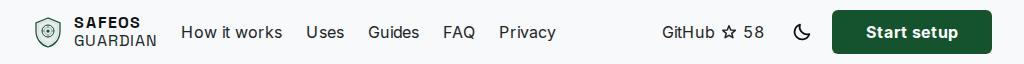
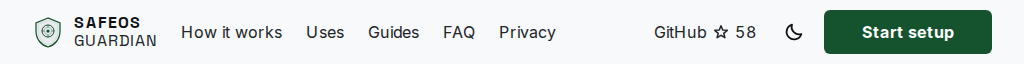
Pictures: the footer at 390 px with every row on one line, and the header's start key at one width before and after setup, from the Pictures run on 9097c4d

Changed region(s): [[0.625, 0.1562, 0.8438, 0.8438], [0.8438, 0.4062, 0.9375, 0.6562]]

diff --git a/docs/pictures/pr-52/README.md b/docs/pictures/pr-52/README.md
@@ -16,6 +16,15 @@ a post: `faq-1280-light.png`, `blog-1280-light.png` and
 `blog-how-safeos-guardian-works-1280-light.png`. That run read the same count
 on the same day, and every walk passed.
 
+Eight files of `after/` are from a later run,
+[run 44879584728](https://github.com/framerslab/safeos/actions/runs/44879584728)
+on commit 9097c4d, which keeps every footer row on one line from 390 pixels
+and gives the header's start key one width for both its labels:
+`site-footer-390-<look>.png`, `site-header-1280-<look>.png`,
+`header-820-light.png`, `header-1024-light.png`, `header-1280-light.png` and
+`home-setup-done-1280-light.png`. That run read the same count on the same
+day, and every walk passed.
+
 `before/`: the `pictures-before` artifact, the base commit 7ffbaed, built and
 captured by the same script. The base has no star count.
 
@@ -41,5 +50,7 @@ In `after/` alone, from the walk of the pull request's own build
 |---|---|
 | `keys-sheet-<look>.png` | The four kinds of key laid out on a public page with the site's own stylesheet. One row a kind: the solid key, the outlined key, a link told by its place, a link row, a word key, an icon key. From left to right: at rest, under the pointer, focused from the keyboard, pressed, and inactive (for the link told by its place, the page being read). Each tile is a picture of the live key in that form |
 | `header-820-light.png`, `header-1024-light.png` | The row at a tablet (four links, no GitHub) and at 1024 pixels (Privacy as the fifth link, GitHub with its count) |
+| `header-1280-light.png` | The row at 1280 pixels on a first visit: the start key reads "Start setup" |
+| `home-setup-done-1280-light.png` | The home page at 1280 pixels once setup is done on this device: the start key reads "Open dashboard" at the same width, so GitHub and the look switch stand where they stood |
 | `header-github-hover-1280-<look>.png` | The pointer over the GitHub link |
 | `header-faq-hover-1280-<look>.png` | On the FAQ, the pointer over Guides: 1 pixel in the ink beside the 2 pixels in green under the page being read |
